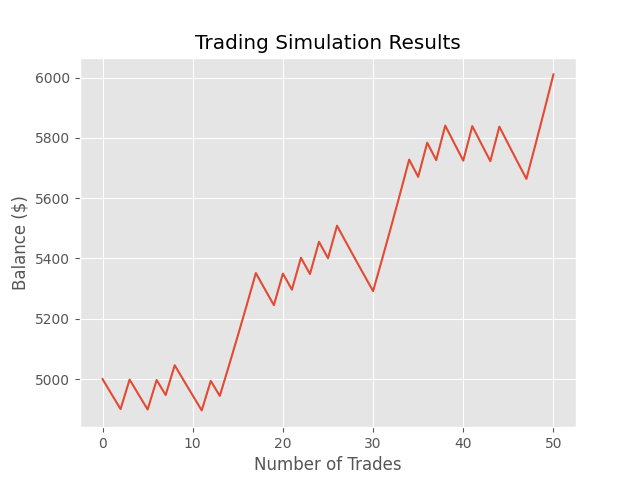
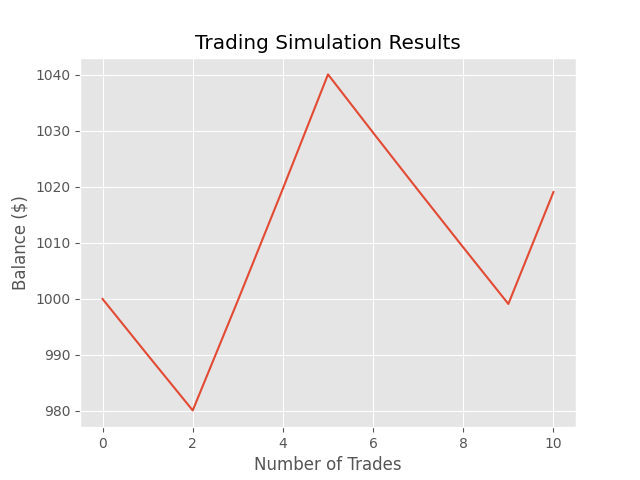
update the looks & sim func logic with max dd

diff --git a/app.py b/app.py
@@ -2,7 +2,7 @@ import tkinter as tk
 from tkinter import ttk
 from tkinter import messagebox
 import matplotlib.pyplot as plt
-from random import random
+import random
 
 # Import the functions
 from formulas.position_size_forex import get_position_sizing_result_forex
@@ -14,14 +14,21 @@ app.title("Traders Toolbox")
 # app.geometry("800x600")
 app.resizable(False, False)
 # app.iconbitmap("./images/mr5obot.ico")
+# app.configure(borderwidth=5, relief="raised")
 
 # Create a Notebook
 notebook = ttk.Notebook(app)
-notebook.pack(expand=True, fill="both", padx=20, pady=20)
+notebook.pack(expand=True, fill="both")
+notebook.pack(pady=10, padx=10)
 
 # Apply a custom style for vertical tabs
 style = ttk.Style(app)
 style.theme_use("clam")
+
+# Configure the TNotebook.Tab style
+# style.configure("TNotebook.Tab", background="lightblue", foreground="black")
+# style.map("TNotebook.Tab", background=[("selected", "white")])
+style.configure("TNotebook.Tab", padding=[5, 5], font=("Arial", 12))
 
 # Add Tabs
 position_sizing_forex_tab = ttk.Frame(notebook)
@@ -31,7 +38,7 @@ probability_sim_tab = ttk.Frame(notebook)
 
 notebook.add(position_sizing_forex_tab, text="Position Sizing forex")
 notebook.add(position_sizing_futures_tab, text="Position Sizing futures")
-notebook.add(probability_sim_tab, text="probability simulator")
+notebook.add(probability_sim_tab, text="Probability simulator")
 # notebook.add(rr_required_tab, text="RR Required Formula")
 
 
@@ -65,7 +72,7 @@ ttk.Label(position_sizing_forex_tab, text="Stop Loss (pips):").pack(pady=5, padx
 entry_stop_loss_pips_forex = ttk.Entry(position_sizing_forex_tab)
 entry_stop_loss_pips_forex.pack(pady=5, padx=5)
 
-ttk.Label(position_sizing_forex_tab, text="Pip value: (eurusd=5$)").pack(pady=5, padx=10)
+ttk.Label(position_sizing_forex_tab, text="Pip value: (eurusd=10$)").pack(pady=5, padx=10)
 entry_pip_value_forex = ttk.Entry(position_sizing_forex_tab)
 entry_pip_value_forex.pack(pady=5, padx=5)
 
@@ -133,21 +140,41 @@ def probability_simulator():
         balance = initial_balance
         balance_history = [initial_balance]
         wins = 0
+
+        # Loop through the number of trades
         for _ in range(num_trades):
-            risk_amount = balance * (risk_percent / 50)
-            if random() > 0.5:
+            risk_amount = balance * (risk_percent / 100)
+            if random.random() > 0.5:
                 balance += risk_amount * rr_ratio
                 wins += 1
             else:
                 balance -= risk_amount
+
             balance_history.append(balance)
 
-        # Calculate results
-        win_rate = (wins / num_trades) * 50
-        total_return = ((balance - initial_balance) / initial_balance) * 50
+        # Calculate Max Drawdown from Balance History
+        max_drawdown = 0
+        peak_balance = balance_history[0]
 
-        # Display results
-        messagebox.showinfo(message=f"Final Balance: ${balance:.2f}\nTotal Return: {total_return:.2f}%\nWin Rate: {win_rate:.2f}%")
+        for balance in balance_history:
+            if balance > peak_balance:
+                peak_balance = balance
+            drawdown = (peak_balance - balance) / peak_balance
+            max_drawdown = max(max_drawdown, drawdown)
+
+        # Convert to percentage
+        max_drawdown *= 100
+        
+        # Calculate results
+        win_rate = (wins / num_trades) * 100
+        total_return = ((balance - initial_balance) / initial_balance) * 100
+
+        # Print results in console
+        print(total_return)
+        print(max_drawdown)
+
+        # Display results in a messagebox
+        messagebox.showinfo(message=f"Final Balance: ${balance:.2f}\nTotal Return: {total_return:.2f}%\nWin Rate: {win_rate:.2f}%\nMax Drawdown: {max_drawdown:.2f}%")
 
         # Plot the balance history
         plt.style.use("ggplot")
@@ -155,7 +182,7 @@ def probability_simulator():
         plt.title("Trading Simulation Results")
         plt.xlabel("Number of Trades")
         plt.ylabel("Balance ($)")
-        plt.grid()
+        plt.grid(True)
         plt.savefig("Simulation.png")
         plt.show()
 

diff --git a/expirements.py b/expirements.py
@@ -10,7 +10,7 @@ style = ttk.Style()
 # style.configure("TNotebook", background="white")
 # style.configure("TNotebook.Tab", background="white", padding=[10, 5])
 style.theme_use("clam") 
-print(style.theme_names())
+# print(style.theme_names())
 
 
 # Create a Notebook
